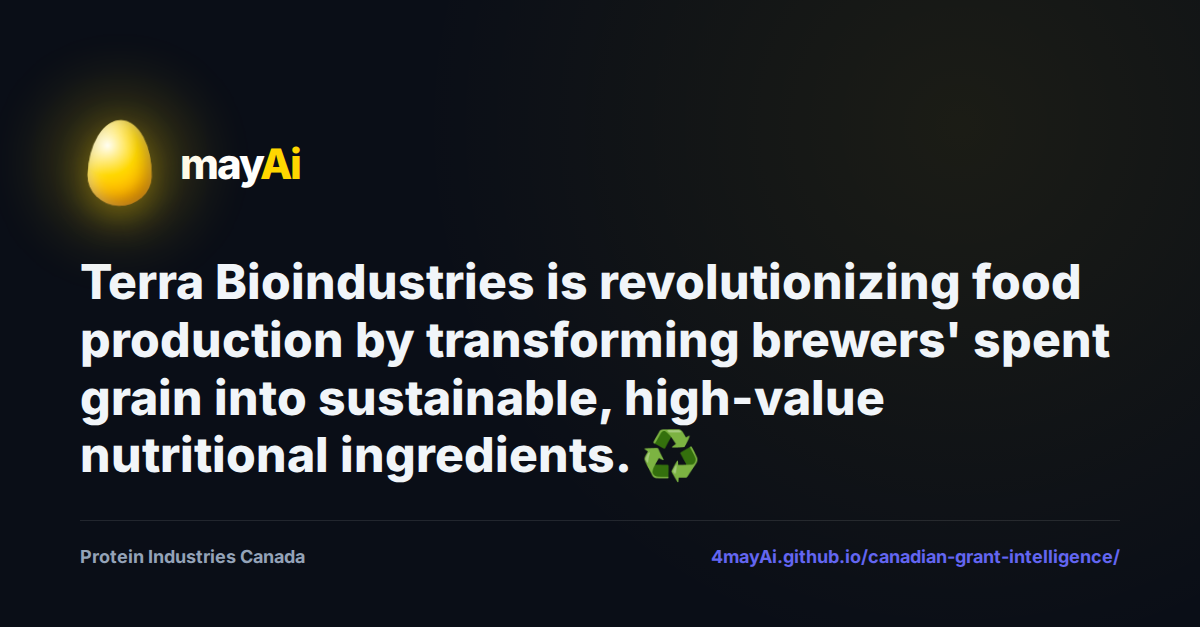
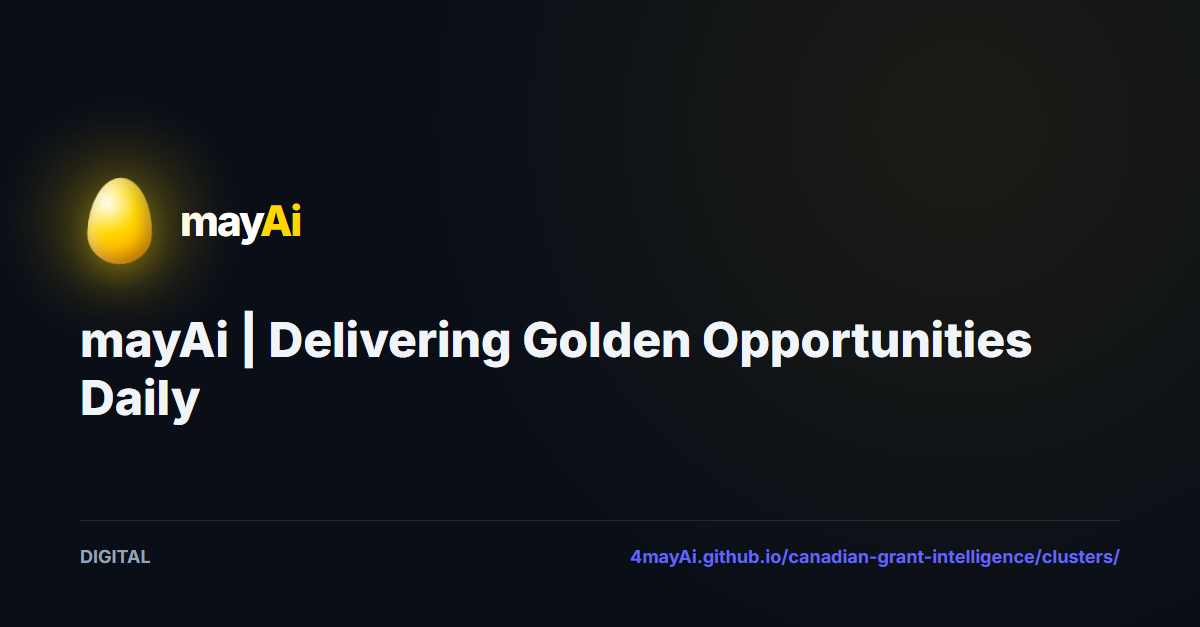
Dynamic URL branding support for Innovation Clusters social card

Changed region(s): [[0.0308, 0.1515, 0.925, 0.7879], [0.5242, 0.8788, 0.925, 0.9091], [0.0617, 0.8788, 0.2775, 0.9091]]

diff --git a/scripts/templates/social_card.html b/scripts/templates/social_card.html
@@ -99,7 +99,7 @@
     </div>
     <div class="footer">
         <div class="tagline" id="category-text">Executive Intelligence Report</div>
-        <div class="url">4mayAi.github.io/canadian-grant-intelligence/</div>
+        <div class="url" id="url-text">4mayAi.github.io/canadian-grant-intelligence/</div>
     </div>
 </body>
 </html>

diff --git a/scripts/generate_social_card.py b/scripts/generate_social_card.py
@@ -3,7 +3,7 @@ import sys
 import asyncio
 from playwright.async_api import async_playwright
 
-async def generate_card(hook_text, category_text, output_path):
+async def generate_card(hook_text, category_text, output_path, url_text=None):
     """Renders the HTML template with dynamic text and captures a high-res screenshot."""
     script_dir = os.path.dirname(os.path.abspath(__file__))
     template_path = os.path.join(script_dir, "templates", "social_card.html")
@@ -23,10 +23,14 @@ async def generate_card(hook_text, category_text, output_path):
         # We escape backticks to prevent injection issues in the evaluate string
         safe_hook = hook_text.replace("`", "\\`").replace("${", "\\${")
         safe_category = category_text.replace("`", "\\`").replace("${", "\\${")
+        safe_url = url_text.replace("`", "\\`").replace("${", "\\${") if url_text else ""
         
         await page.evaluate(f"""
             document.getElementById('hook-text').innerText = `{safe_hook}`;
             document.getElementById('category-text').innerText = `{safe_category}`;
+            if (`{safe_url}`) {{
+                document.getElementById('url-text').innerText = `{safe_url}`;
+            }}
         """)
         
         # Wait for fonts and styles to settle
@@ -40,14 +44,15 @@ async def generate_card(hook_text, category_text, output_path):
 if __name__ == "__main__":
     # Check for required arguments
     if len(sys.argv) < 3:
-        print("Usage: python generate_social_card.py <hook_text> <category_text> [output_path]")
+        print("Usage: python generate_social_card.py <hook_text> <category_text> [output_path] [url_text]")
         sys.exit(1)
         
     hook = sys.argv[1]
     category = sys.argv[2]
     output = sys.argv[3] if len(sys.argv) > 3 else "reports/linkedin/social_card.png"
+    url = sys.argv[4] if len(sys.argv) > 4 else None
     
     # Ensure output directory exists
     os.makedirs(os.path.dirname(output), exist_ok=True)
     
-    asyncio.run(generate_card(hook, category, output))
+    asyncio.run(generate_card(hook, category, output, url))

diff --git a/generic_engine/main.py b/generic_engine/main.py
@@ -341,10 +341,12 @@ def run_engine_pipeline(config_path: Optional[str] = None, config_url: Optional[
         if os.path.exists(script_path):
             logging.info("Generating social card image via Playwright...")
             import subprocess
+            clean_url = (config.dashboard_url or "").replace("https://", "").replace("http://", "")
             try:
                 subprocess.run([
                     sys.executable, script_path,
-                    kpis.get("hero_hook", ""), kpis.get("top_category", "Mixed Sectors"), social_card_local_path
+                    kpis.get("hero_hook", ""), kpis.get("top_category", "Mixed Sectors"), social_card_local_path,
+                    clean_url
                 ], check=True)
                 logging.info(f"Successfully generated social card locally at {social_card_local_path}")
             except Exception as e:

diff --git a/docs/session_2026-05-31_021000_housekeeping_planning.md b/docs/session_2026-05-31_021000_housekeeping_planning.md
@@ -15,14 +15,17 @@ Title: Landing Page Housekeeping & Social Card Integration Planning
 - Refined GeminiClient.get_hero_hook to enforce a single-sentence Bloomberg-style hero hook (<20 words) with no markdown headers, lists, or bold formatting.
 - Updated docs/clusters/index.html to dynamically compute all three KPIs in the browser, rename tabs/card titles, and implement side-by-side executive digest layout.
 - Integrated playwright social card generation into main.py and verified it runs successfully locally and uploads to Azure.
+- Added dynamic URL support to scripts/templates/social_card.html and scripts/generate_social_card.py, and updated generic_engine/main.py to clean and pass config.dashboard_url to the card generator, ensuring the URL printed on the card matches the clusters subdomain clusters path (4mayAi.github.io/canadian-grant-intelligence/clusters/).
 
 Summary:
 - Refactored hero hook generation, KPI calculation, and digest wording on the Innovation Clusters dashboard.
 - Integrated automated Playwright-based social card image generation and side-by-side grid preview.
+- Fixed social card URL branding on the card from the default grant scraper URL to the clusters path.
 - Pushed final changes to the main branch.
 
 Issues:
 - Directory junction resolution during local dry-run resolved by passing absolute paths to python.exe.
+- Corrected python f-string bracket escaping syntax error in generate_social_card.py by doubling JS brackets.
 
 Next Steps:
-- Monitor the daily GHA scraper run to confirm that the live page displays the visual card and cleaned KPIs correctly on subsequent updates.
+- Trigger the GHA run to update the live social card image on Azure Blob storage and push the latest committed outputs.